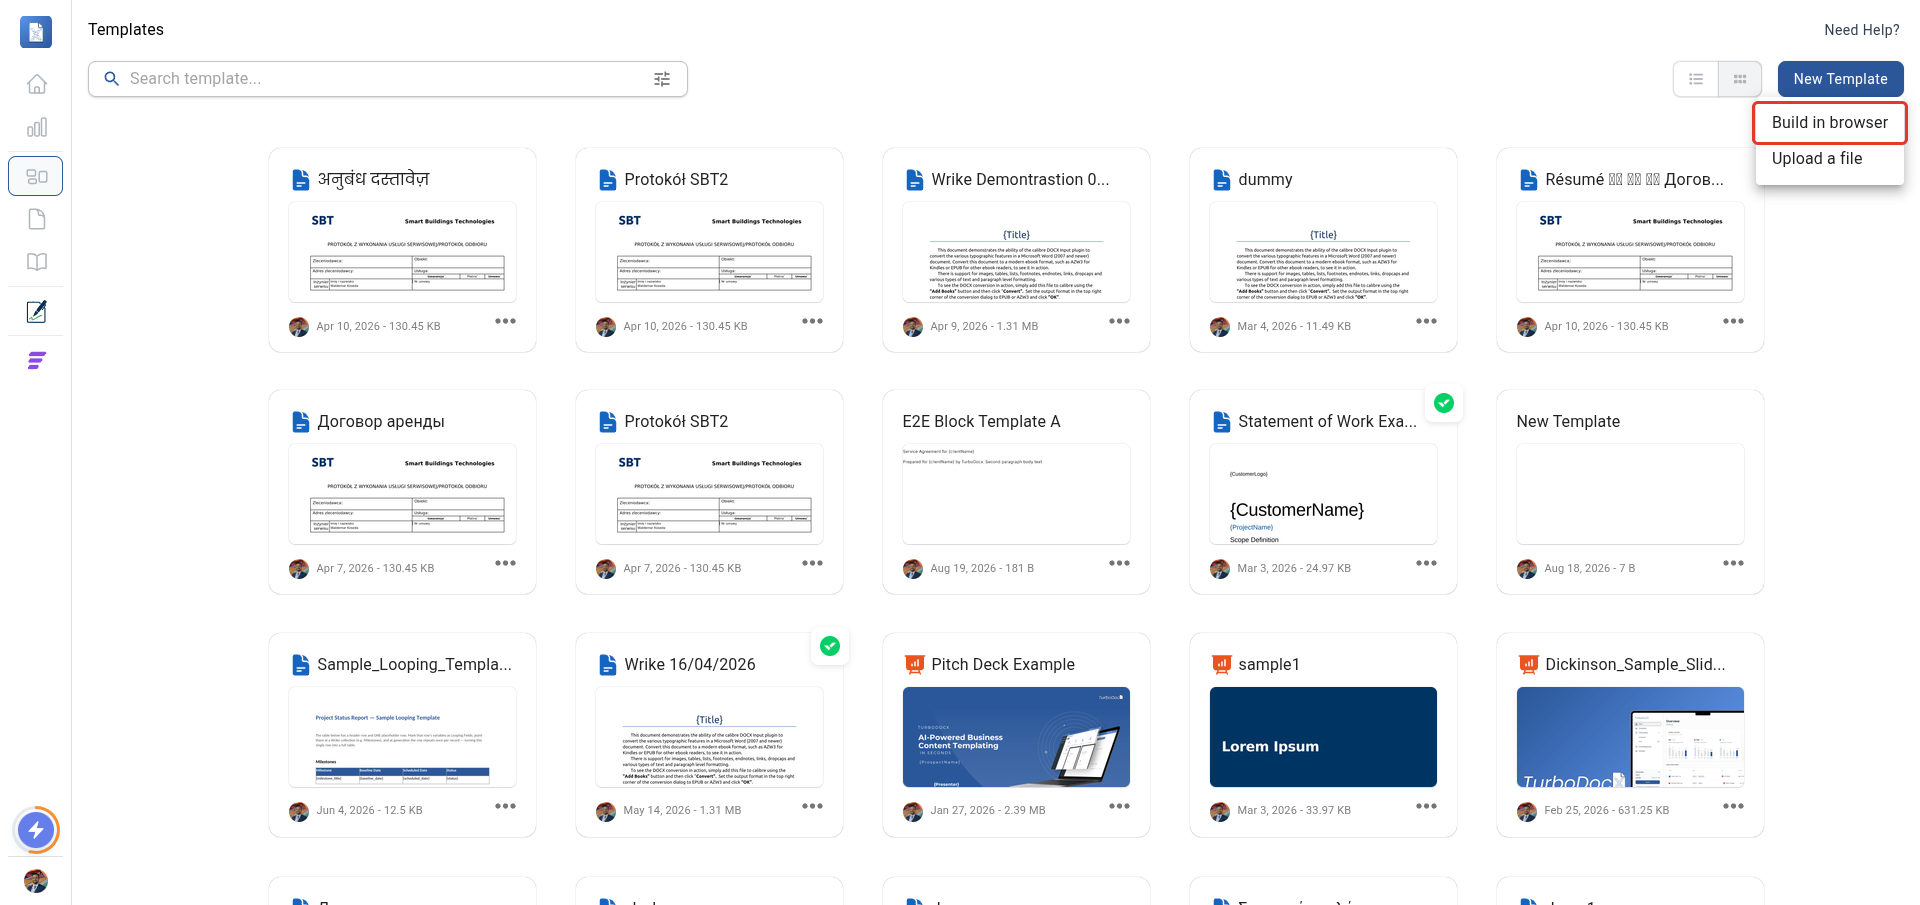
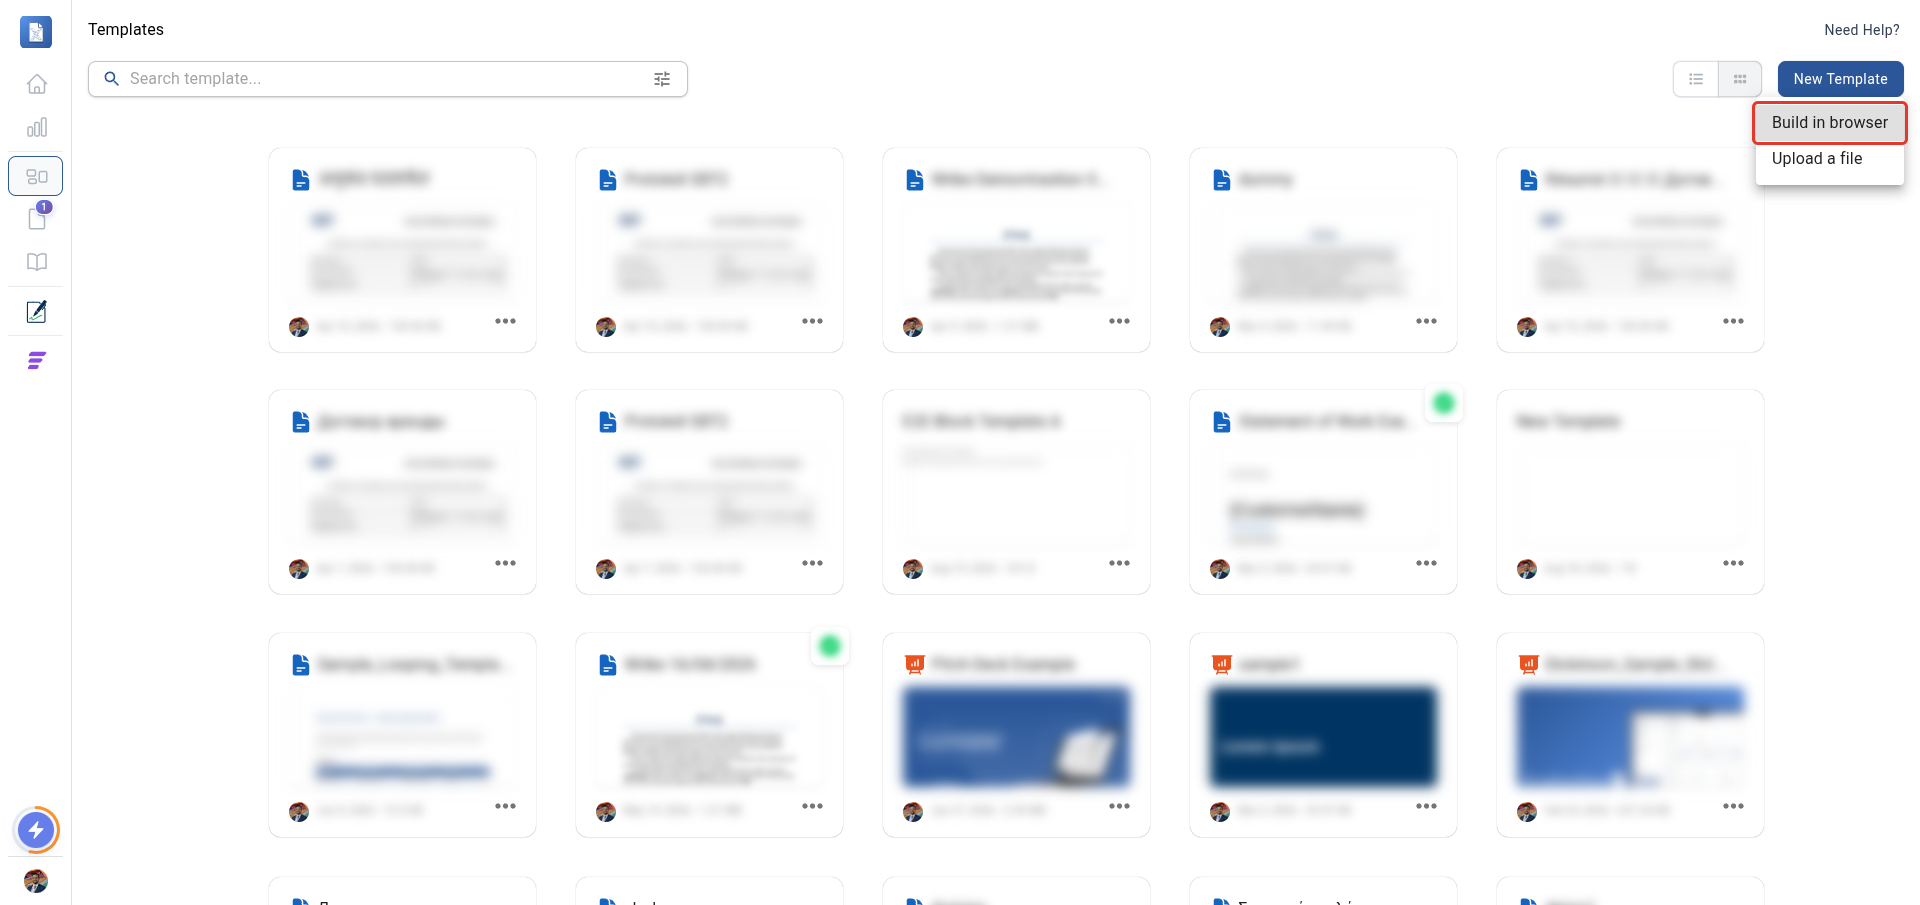
docs(templating): teach only the + button, and blur template names in screenshots
Two corrections.

**Scope.** The guide documented three ways to add content: the "@" variable
trigger, the "/" formatting menu, and the + button. Only the + button has been
verified end to end, so the other two are removed rather than documented
untested. Everything is now added the same way — hover a line, click +, pick the
block — with worked examples for a heading and a table.

**Privacy.** The Templates-page screenshots showed real template names from the
test org, several of which are not fit for public documentation. Template names
and thumbnails are now blurred; the New Template button and the menu stay sharp
because that is what the steps point at. Nothing in the app was renamed.

Screenshots renumbered to a clean 1-8 sequence; the two orphaned images from the
removed steps are deleted. All 8 remain 1920x905.

diff --git a/docs/TurboDocx Templating/How to Build a Template in the Browser.md b/docs/TurboDocx Templating/How to Build a Template in the Browser.md
@@ -1,18 +1,19 @@
 ---
 title: How to Build a Template in the Browser
 sidebar_position: 4
-description: Build a TurboDocx template without Word or Google Docs. Write your document in the browser, insert variables with the @ key, and generate documents from it.
+description: Build a TurboDocx template without Word or Google Docs. Write your document in the browser, add headings and tables, and generate documents from it.
 keywords:
   - build template in browser
   - block editor
   - browser template editor
-  - insert variable
+  - add heading
+  - add table
   - turbodocx template
   - document automation
   - no word needed
 ---
 
-Most TurboDocx templates start life in Word or Google Docs. You do not have to work that way. You can write a template directly in your browser, insert variables as you type, and save it as a template — no other application involved.
+Most TurboDocx templates start life in Word or Google Docs. You do not have to work that way. You can write a template directly in your browser and save it as a template — no other application involved.
 
 This guide walks you through building one from scratch.
 
@@ -39,32 +40,16 @@ A short menu appears under the button with two choices.
 
 The editor opens with an empty page. Type your document into it exactly as you would in any word processor.
 
-## Step 3: Insert a Variable with `@`
+## Step 3: Add Blocks with the + Button
 
-A variable is a placeholder that gets filled in each time you generate a document — a client's name, a date, a price.
+Headings, tables, lists and images are all added the same way — with the **+** button that appears beside each line.
 
-1. Type the sentence you want, and stop where the variable belongs. For example: `Prepared for `
-2. Press the **@** key.
-3. A list of your organization's variables appears. Start typing to narrow it down.
-4. Click the variable you want, or press **Enter** to choose the highlighted one.
+1. Move your pointer over the line where you want the new block. A **+** appears to its left.
+2. Click the **+**.
 
-![Block editor with the @ menu open, showing a list of available variables such as companyName and BillRate](/img/block_template_editor/step_3_variable_menu.png)
+![Block editor with the pointer over an empty line, showing the + add-block button highlighted to the left of the line](/img/block_template_editor/step_3_add_block_button.png)
 
-The variable is inserted as a labelled chip showing its name and current value, so you can see at a glance where every placeholder sits in the document.
-
-:::tip
-The hint bar above the page is a reminder of both shortcuts: **/** for formatting and **@** for variables.
-:::
-
-## Step 4: Format with `/`
-
-1. Start a new line.
-2. Press the **/** key.
-3. Pick the block you want.
-
-![Block editor with the / menu open, showing Headings, Numbered List, Bullet List, Paragraph, Table, and Image options](/img/block_template_editor/step_4_slash_menu.png)
-
-The menu offers what a business document needs:
+A menu opens with everything you can add:
 
 | Group | Blocks |
 |---|---|
@@ -73,57 +58,45 @@ The menu offers what a business document needs:
 | Advanced | Table |
 | Media | Image |
 
-You can also use the keyboard shortcuts shown beside each entry — **Ctrl-Alt-1** for Heading 1, **Ctrl-Shift-8** for a bullet list, and so on.
+## Step 4: Add a Heading
 
-## Step 5: Add Blocks with the + Button
+1. Click the **+** button on the line where the heading belongs.
+2. Click **Heading 2** in the menu.
+3. Type the heading text, for example `Pricing`.
 
-If you would rather use the mouse than the keyboard, every line has a **+** button.
+![Add block menu open with Heading 2 highlighted](/img/block_template_editor/step_4_choose_heading.png)
 
-1. Move your pointer over the line where you want the new block. A **+** appears to its left.
-2. Click the **+**.
+:::tip
+**Heading 1** is for the document title, **Heading 2** for main sections, and **Heading 3** for subsections beneath them.
+:::
 
-![Block editor with the pointer over an empty line, showing the + add-block button highlighted to the left of the line](/img/block_template_editor/step_5_add_block_button.png)
-
-The same menu opens. This is the identical list you get from `/` — use whichever you prefer.
-
-### Add a heading
-
-1. Click **Heading 2** in the menu.
-2. Type the heading text, for example `Pricing`.
-
-![Add block menu open with Heading 2 highlighted](/img/block_template_editor/step_6_choose_heading.png)
-
-### Add a table
+## Step 5: Add a Table
 
 1. Press **Enter** to start a new line below your heading.
 2. Click the **+** button again.
 3. Click **Table** under **Advanced**.
 
-![Add block menu open with Table highlighted under the Advanced group](/img/block_template_editor/step_7_choose_table.png)
+![Add block menu open with Table highlighted under the Advanced group](/img/block_template_editor/step_5_choose_table.png)
 
-A table appears in your document. Click any cell and type to fill it in, and press **Tab** to move to the next cell.
+A table appears in your document. Click any cell and type to fill it in, then press **Tab** to move to the next cell.
 
-![Document showing a Pricing heading above a completed table of services and rates, with the table highlighted](/img/block_template_editor/step_8_heading_and_table.png)
-
-:::tip
-You can put variables inside table cells too — press **@** while your cursor is in a cell.
-:::
+![Document showing a Pricing heading above a completed table of services and rates, with the table highlighted](/img/block_template_editor/step_6_heading_and_table.png)
 
 ## Step 6: Name and Create the Template
 
 1. Click **Untitled** at the top of the page and type a name for your template.
 2. Click **Create Template** in the top-right corner.
 
-![Block editor containing a Statement of Work heading and a companyName variable, with the Create Template button highlighted](/img/block_template_editor/step_9_create_template.png)
+![Block editor containing a Statement of Work heading, with the Create Template button highlighted](/img/block_template_editor/step_7_create_template.png)
 
 ## Step 7: Generate a Document
 
 Your new template opens ready to use.
 
-1. Fill in each variable in the **Template Variables** panel on the right. The document preview updates to show your values.
+1. Fill in any variables in the **Template Variables** panel on the right. The document preview updates to show your values.
 2. Click **Generate Deliverable** in the top-right corner.
 
-![Generate page showing the finished document with the variable filled in and the Generate Deliverable button highlighted](/img/block_template_editor/step_10_generate_deliverable.png)
+![Generate page showing the finished document with the Generate Deliverable button highlighted](/img/block_template_editor/step_8_generate_deliverable.png)
 
 Your document is created and appears under **Deliverables**, where you can download it as a Word file or PDF, or send it for signature.
 
